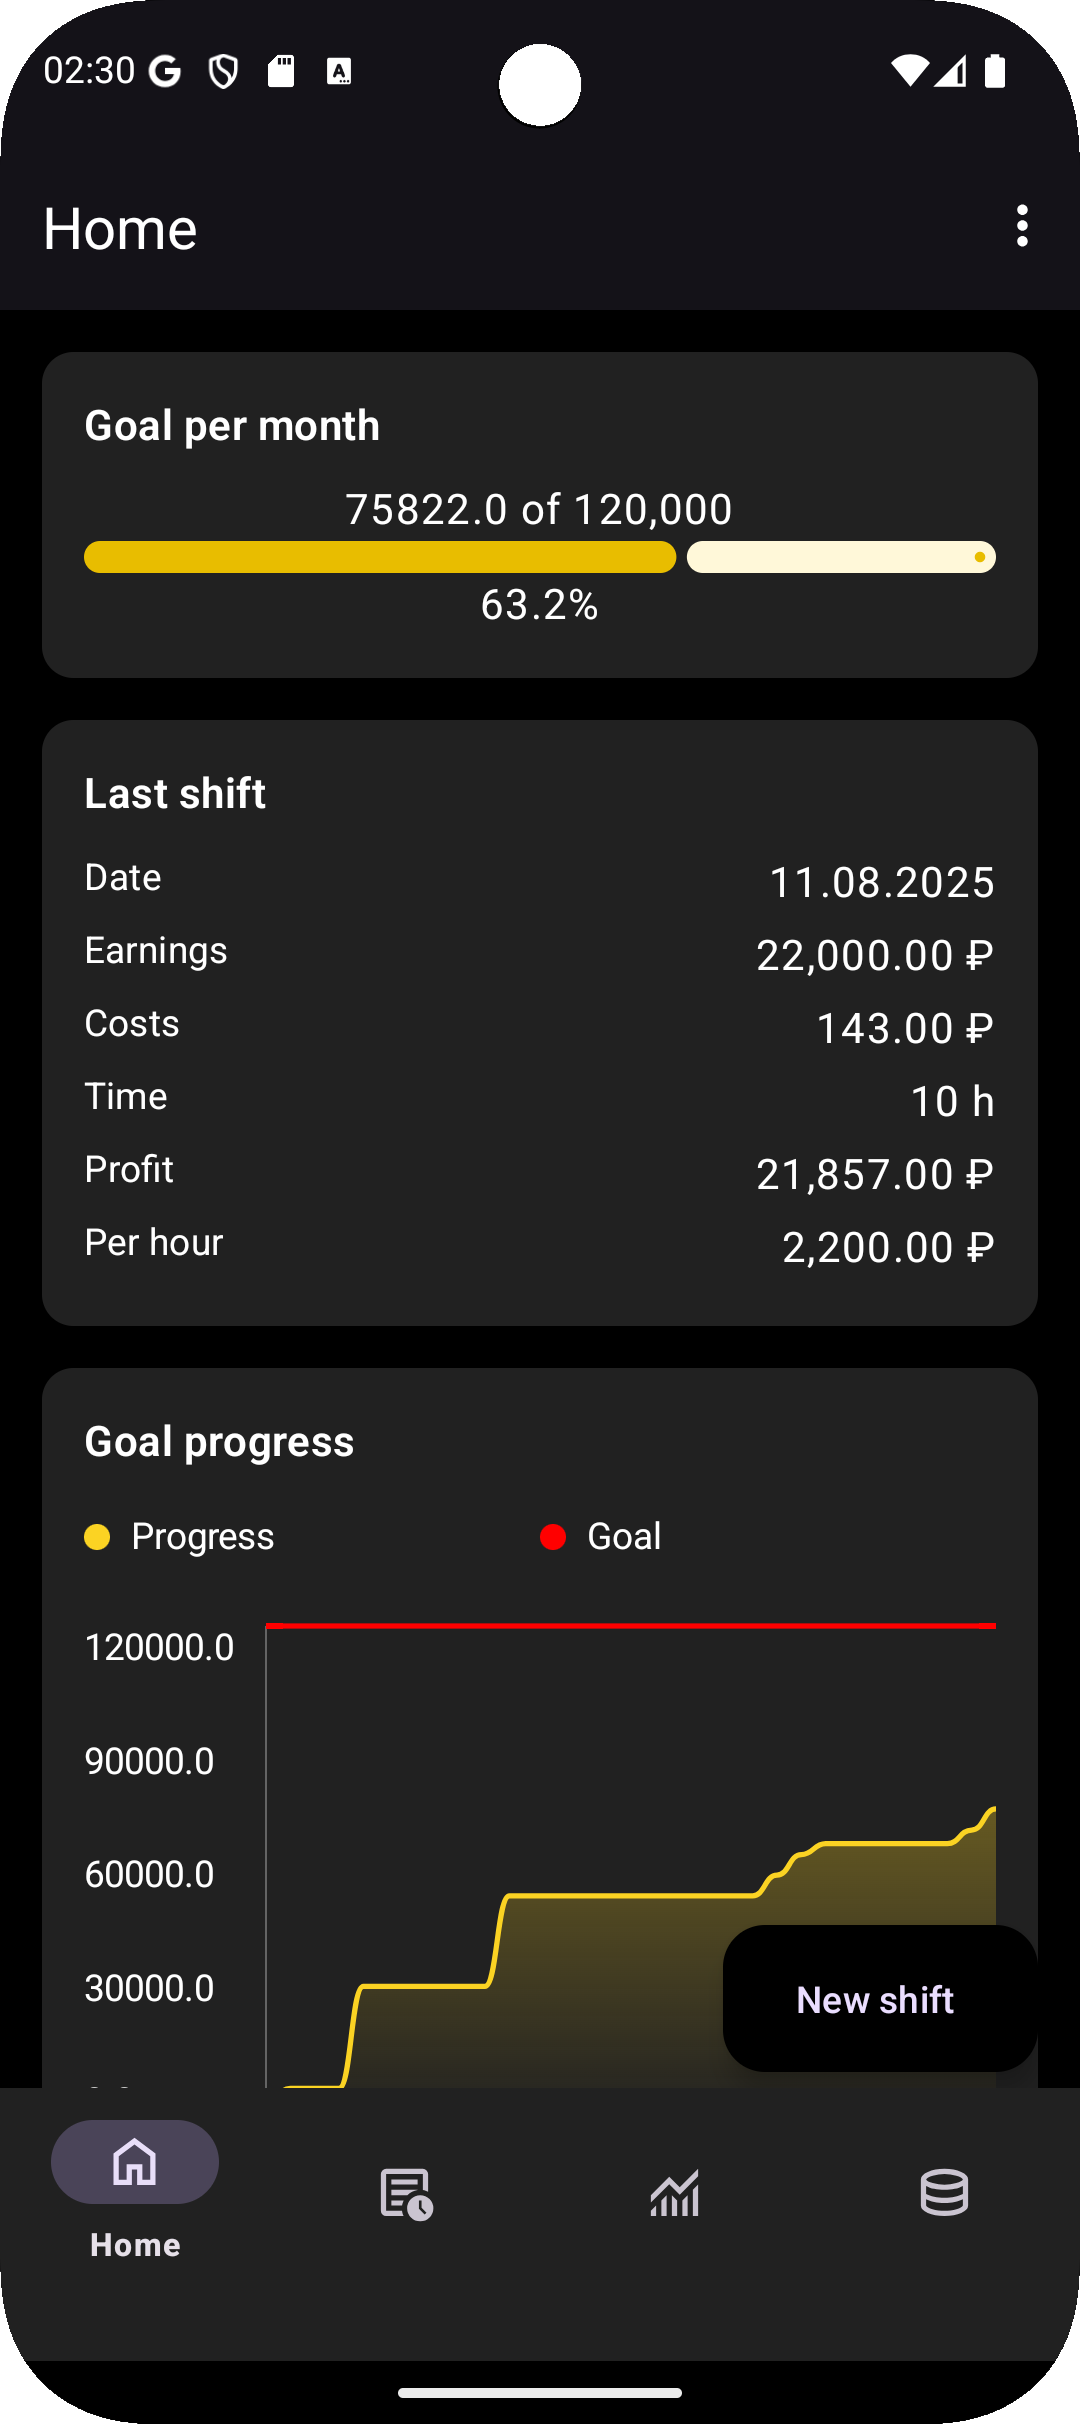
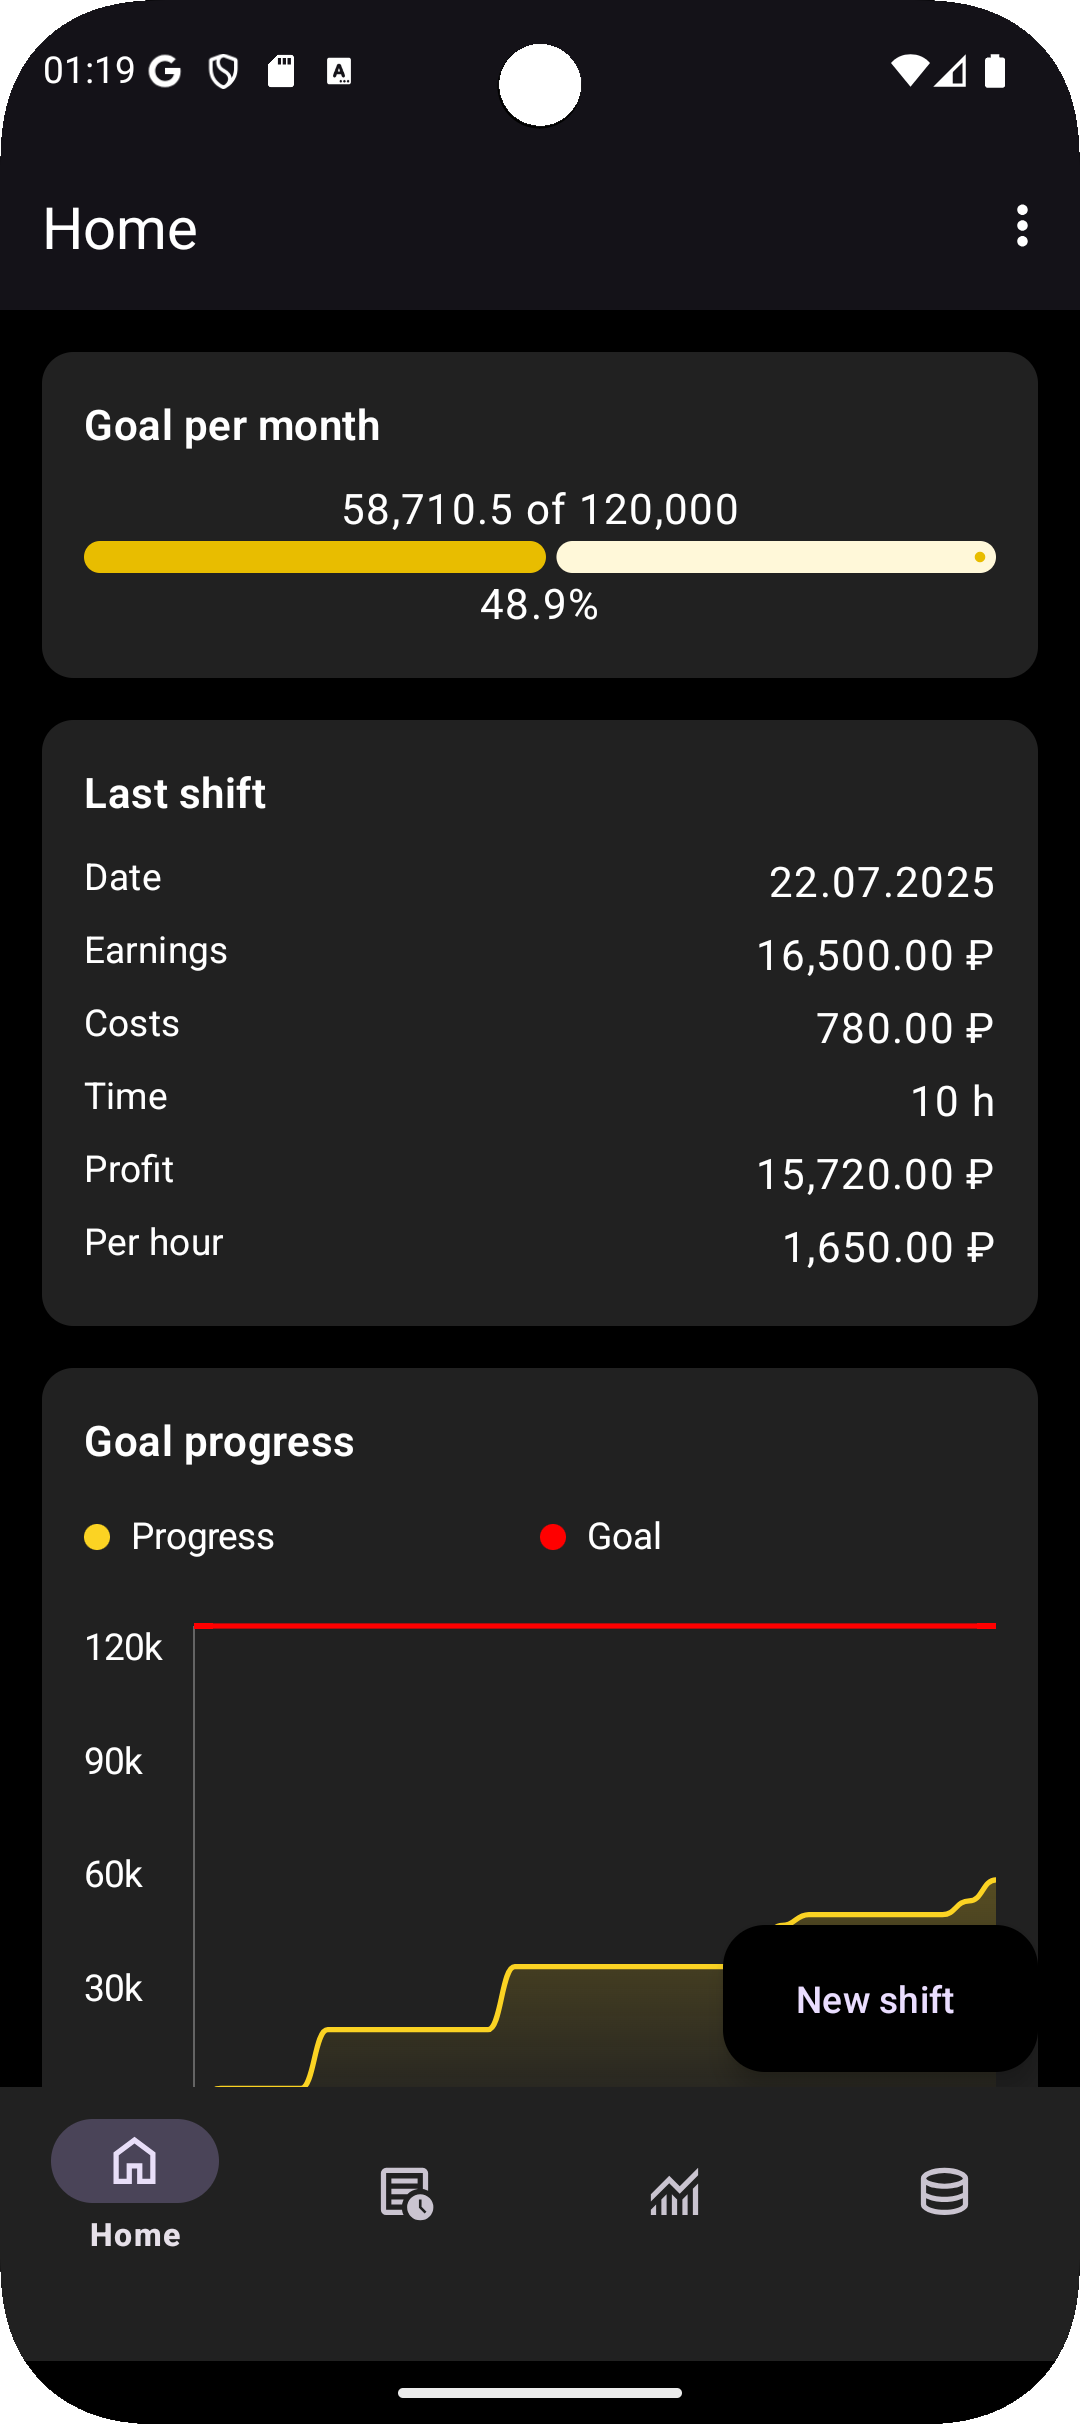
Refactor: Format total profit in CardGoal and update screenshot
- Updated `CardGoal.kt` to format `totalProfit` using `NumberFormat.getNumberInstance(Locale.getDefault()).format()`.
- Replaced the old `home_screen.png` screenshot with an updated version.

diff --git a/app/src/main/java/com/hsact/taxilog/ui/cards/CardGoal.kt b/app/src/main/java/com/hsact/taxilog/ui/cards/CardGoal.kt
@@ -37,7 +37,7 @@ import kotlin.math.roundToInt
 @Composable
 fun CardGoal(
     monthGoal: Float,
-    shiftListFlow: StateFlow<List<Shift>>
+    shiftListFlow: StateFlow<List<Shift>>,
 ) {
     val goal = monthGoal
     val shiftList = shiftListFlow.collectAsStateWithLifecycle().value
@@ -49,6 +49,8 @@ fun CardGoal(
     }
     var progress by remember { mutableFloatStateOf(0f) }
     var formattedGoal = NumberFormat.getNumberInstance(Locale.getDefault()).format(goal)
+    val formattedTotalProfit =
+        NumberFormat.getNumberInstance(Locale.getDefault()).format(totalProfit)
     if (goal == 1f) {
         formattedGoal = "N/A"
     }
@@ -73,7 +75,7 @@ fun CardGoal(
                     modifier = Modifier
                         .align(Alignment.CenterHorizontally)
                         .padding(top = 8.dp),
-                    text = "$totalProfit $stringOf $formattedGoal"
+                    text = "$formattedTotalProfit $stringOf $formattedGoal"
                 )
                 LinearProgressIndicator(
                     modifier = Modifier
